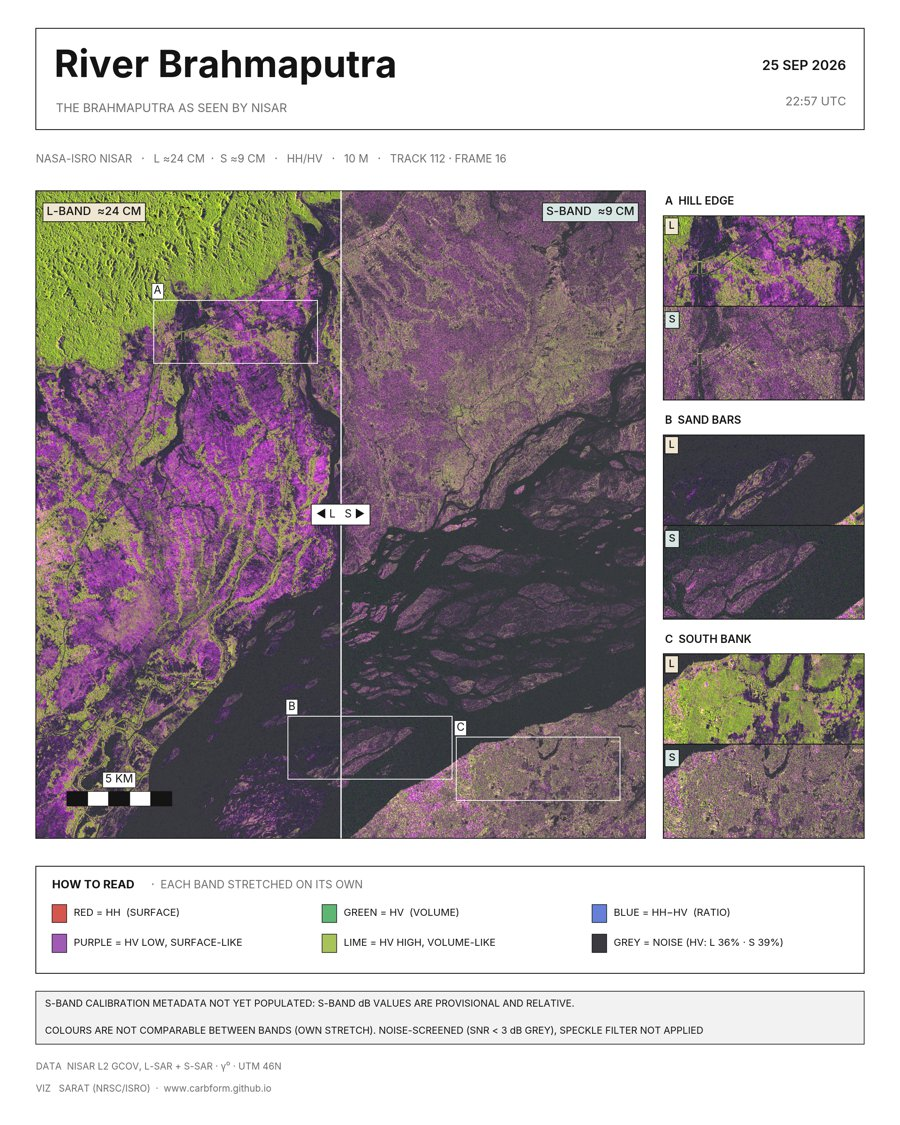
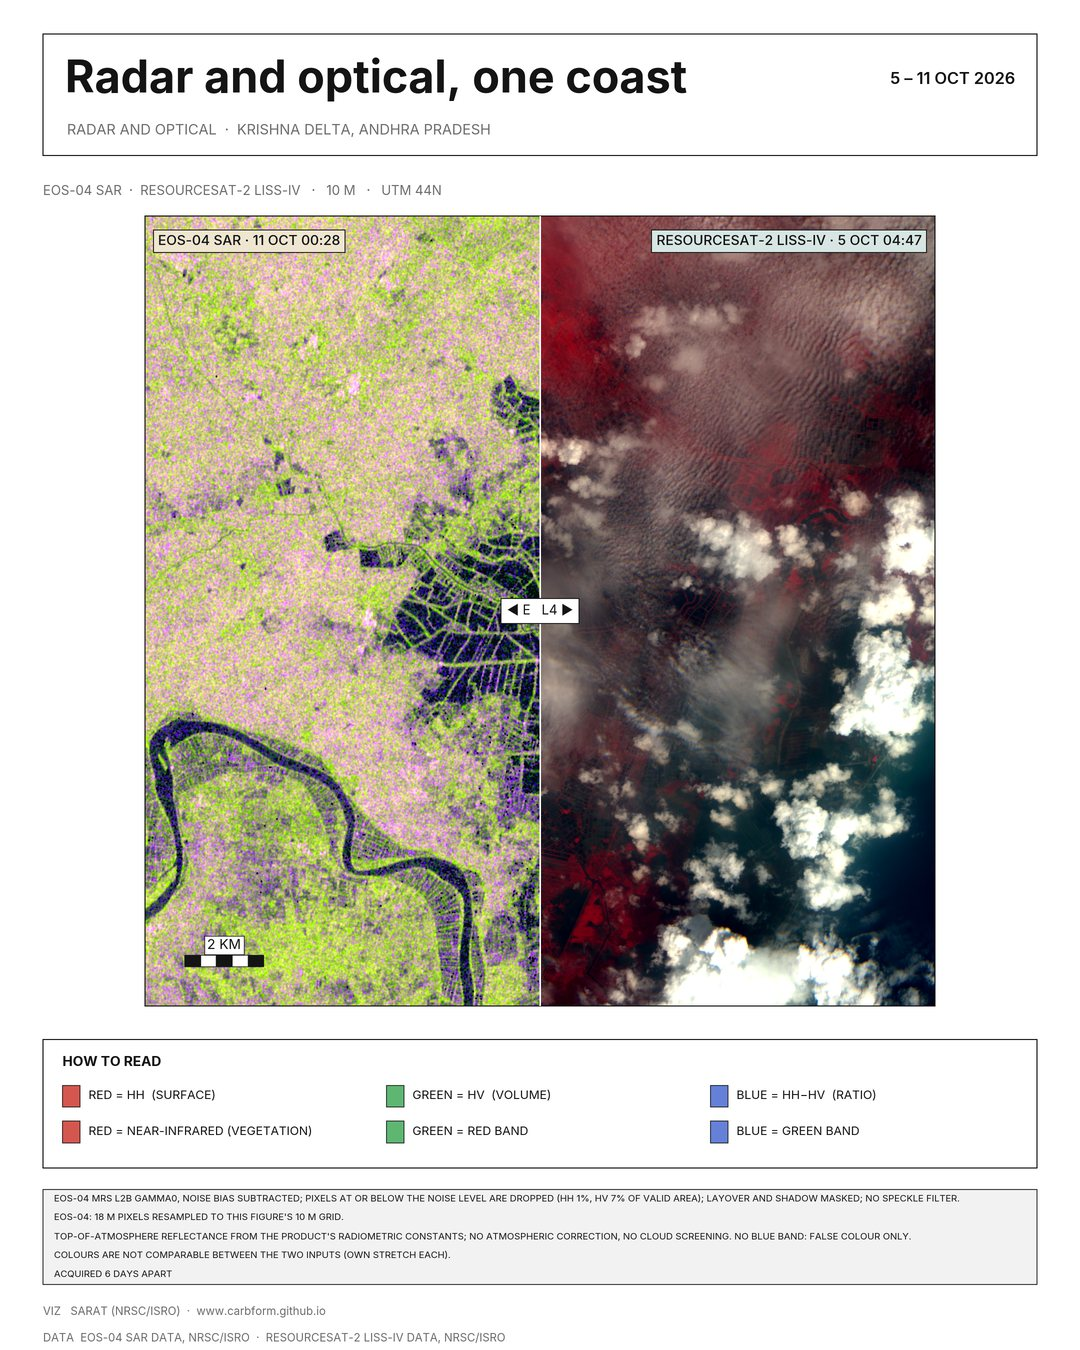
Review fixes: unique file names for one-file-per-input figures, no band claim without band facts, one recipe for all optical inputs
- named single-input figures planning several combos append the input id (they overwrote each other)
- relate(): a SAR product without radar_band makes no band or wavelength claim and says so
- sentinel1_rtc keeps sar:frequency_band when the catalogue has no centre frequency
- pick_recipes: several optical inputs with nothing named share the first recipe all of them can do
- README theme previews all show the same figure

diff --git a/tests/test_templates.py b/tests/test_templates.py
@@ -188,3 +188,47 @@ def test_every_shipped_preset_loads_and_plans(tmp_path):
         job = load_job(copy, tmp_path)
         for f in job.figures:
             assert f.template in TEMPLATES and plan_figure(f, job), preset.name
+
+
+def test_named_figures_with_one_file_per_input_do_not_overwrite_each_other(scene, tmp_path):
+    from tests.test_job import JOB as BASE  # NISAR L and S inputs
+
+    p = tmp_path / "j.toml"
+    p.write_text(BASE + '\n[[figures]]\nname = "x"\ntemplate = "sar"\ninputs = ["L", "S"]\ntheme = "minimal"\n'
+                 '\n[[figures]]\nname = "y"\ntemplate = "single"\ninputs = ["L", "S"]\ntheme = "minimal"\n')
+    paths = run_job(load_job(p, scene.data_dir), tmp_path / "out")
+    names = sorted(q.name for q in paths)
+    assert names == ["x_L_Minimal.png", "x_S_Minimal.png", "y_L_Minimal.png", "y_S_Minimal.png"]
+    assert all(q.exists() for q in paths)
+
+
+def test_no_band_is_claimed_for_a_sar_product_that_does_not_state_one():
+    l = sar("L", "NISAR", "L", 24.2)
+    untagged = sar("A", "ALOS-2", "", 0.0)
+    del untagged.meta["radar_band"], untagged.meta["wavelength_cm"]  # e.g. a generic GeoTIFF
+    r = relate([l, untagged])
+    assert r.kind == "sar_band_unknown" and r.label == "SAR · DIFFERENT SENSORS"
+    assert "band" not in r.label.replace("SAR ·", "").lower() and not any("-band" in n for n in r.notes)
+    assert any("Radar band not stated by the ALOS-2 product" in n for n in r.notes)
+    twin = sar("B", "ALOS-2", "", 0.0)
+    del twin.meta["radar_band"], twin.meta["wavelength_cm"]
+    assert relate([untagged, twin]).label == "SAR · SAME SENSOR"  # never "different bands" with an empty band list
+
+
+def test_a_band_letter_without_a_frequency_is_stated_without_a_wavelength():
+    c = sar("C", "Sentinel-1D", "C", 0.0)
+    del c.meta["wavelength_cm"]
+    l = sar("L", "NISAR", "L", 24.2)
+    notes = " | ".join(relate([l, c]).notes)
+    assert "L-band 24.2 cm, C-band" in notes and "C-band 0" not in notes
+
+
+def test_several_optical_inputs_share_one_recipe_when_none_is_named():
+    liss = optical("L4", "ResourceSat-2", layers=("green", "red", "nir"))  # no blue
+    s2 = optical("S2", "Sentinel-2")
+    both = {"L4": liss, "S2": s2}
+    assert pick_recipes({}, both, ("L4", "S2")) == {"L4": "nir_fcc", "S2": "nir_fcc"}  # like with like
+    assert pick_recipes({"S2": "ndvi"}, both, ("L4", "S2")) == {"L4": "nir_fcc", "S2": "ndvi"}  # a named recipe still wins
+    assert pick_recipes({}, {"S2": s2}, ("S2",)) == {"S2": "true_colour"}  # alone it keeps true colour
+    mixed = {"E": sar("E", "EOS-04", "C", 5.55), "L4": liss, "S2": s2}
+    assert pick_recipes({}, mixed, ("E", "L4", "S2")) == {"E": "sar_fcc", "L4": "nir_fcc", "S2": "nir_fcc"}

diff --git a/src/satviz/relations.py b/src/satviz/relations.py
@@ -10,6 +10,7 @@ from __future__ import annotations
 from dataclasses import dataclass
 
 from satviz.core import Product
+from satviz.radar import BANDS
 
 
 @dataclass(frozen=True)
@@ -45,9 +46,10 @@ def time_gap(products: list[Product]) -> str:
 
 
 def _bands(products: list[Product]) -> list[tuple[str, float]]:
-    """(band letter, wavelength cm) of each distinct SAR band, longest wavelength first."""
-    seen = {p.meta["radar_band"]: p.meta.get("wavelength_cm", 0.0) for p in products if p.meta.get("radar_band")}
-    return sorted(seen.items(), key=lambda kv: -kv[1])
+    """(band letter, wavelength cm or 0 when only the letter is known) of each distinct SAR band, longest wavelength first."""
+    seen = {p.meta["radar_band"]: p.meta.get("wavelength_cm", 0.0) for p in products}
+    order = [b for b, _, _ in BANDS]
+    return sorted(seen.items(), key=lambda kv: order.index(kv[0]) if kv[0] in order else len(order))
 
 
 def _backscatter(products: list[Product]) -> str:
@@ -71,9 +73,15 @@ def relate(products: list[Product]) -> Relation:
         if same_platform:
             return Relation("optical_same_sensor", f"{platforms[0].upper()} · {len(products)} SCENES", (gap,) if gap else ())
         return Relation("optical_different_sensors", "OPTICAL · DIFFERENT SENSORS", (gap,) if gap else ())
+    if untagged := [p for p in products if not p.meta.get("radar_band")]:
+        # a band claim needs every product to state its band; otherwise say so instead of guessing
+        names = ", ".join(dict.fromkeys(p.meta.get("label") or p.meta["platform"] for p in untagged))
+        label = "SAR · " + ("SAME SENSOR" if same_platform else "DIFFERENT SENSORS")
+        notes = [gap, f"Radar band not stated by the {names} product", _backscatter(products)]
+        return Relation("sar_band_unknown", label, tuple(n for n in notes if n))
     bands = _bands(products)
     letters = [b for b, _ in bands]
-    wl = ", ".join(f"{b}-band {w:g} cm" for b, w in bands)
+    wl = ", ".join(f"{b}-band {w:g} cm" if w else f"{b}-band" for b, w in bands)
     if same_platform and len(bands) == 1:
         kind, label = "same_sensor_same_band", f"SAME SENSOR · {letters[0]}-BAND"
         notes = [gap]

diff --git a/src/satviz/sensors/stac_optical.py b/src/satviz/sensors/stac_optical.py
@@ -232,7 +232,7 @@ def open_on_canvas(spec, canvas: Canvas, area: Area, coll: OpticalCollection, ca
         key=spec.key, layers=layers, x=canvas.x, y=canvas.y, epsg=canvas.epsg, valid=valid, kind=coll.kind,
         meta=dict(platform=platform, sensor=coll.label, label=coll.label, start=when, end=max(times),
                   resolution_m=canvas.res, crs=crs_label(canvas.epsg), attribution=coll.attribution,
-                  **(radar_facts(float(props["sar:center_frequency"])) if "sar:center_frequency" in props else {}),
+                  **_radar_meta(props),
                   **({"backscatter": "gamma0, terrain-corrected"} if coll.kind == "sar" else {}),
                   credit=coll.credit(when.year, platform), items=assess["ids"]),
         facts=SimpleNamespace(cloud_pct=cloud, coverage_pct=100 * assess["coverage"], items=", ".join(assess["ids"]),
@@ -241,6 +241,15 @@ def open_on_canvas(spec, canvas: Canvas, area: Area, coll: OpticalCollection, ca
                               polarisations="/".join(props.get("sar:polarizations", []))),
         caveats=caveats,
     )
+
+
+def _radar_meta(props: dict) -> dict:
+    """Band facts from a catalogue item: the centre frequency when given, else just the band letter, else nothing."""
+    if "sar:center_frequency" in props:
+        return radar_facts(float(props["sar:center_frequency"]))
+    if props.get("sar:frequency_band"):
+        return dict(radar_band=str(props["sar:frequency_band"]).upper())
+    return {}
 
 
 def search_rows(spec, coll: OpticalCollection, area: Area, canvas: Canvas, cache_dir=None) -> list[dict]:

diff --git a/src/satviz/templates/base.py b/src/satviz/templates/base.py
@@ -50,9 +50,23 @@ def default_recipe(product: Product, input_id: str = "") -> str:
                         f"no default recipe fits, set recipes = {{ {input_id} = \"...\" }} in the figure")
 
 
+def shared_optical_recipe(products: list[Product]) -> str | None:
+    """The first preferred optical recipe every product can do, so several optical inputs show the same composite."""
+    for name in OPTICAL_PREFERENCE:
+        if all(layer in p.layers for p in products for layer in RECIPES[name].needs):
+            return name
+    return None
+
+
 def pick_recipes(named: dict, products: dict, combo: tuple[str, ...]) -> dict[str, str]:
-    """Per input: its entry in the figure's `recipes`, else `default`, else the sensor-appropriate default."""
-    return {k: named.get(k) or named.get("default") or default_recipe(products[k], k) for k in combo}
+    """Per input: its entry in the figure's `recipes`, else `default`, else a sensor-appropriate default.
+
+    With several optical inputs and nothing named, they all get one recipe (LISS-IV, which has no blue band, next to Sentinel-2
+    gets NIR false colour on both sides), so the figure compares like with like."""
+    optical = [products[k] for k in combo if products[k].kind == "optical"]
+    shared = shared_optical_recipe(optical) if len(optical) > 1 else None
+    return {k: named.get(k) or named.get("default") or (shared if shared and products[k].kind == "optical" else None)
+            or default_recipe(products[k], k) for k in combo}
 
 
 def pairs(ids: list[str]) -> list[tuple[str, ...]]:

diff --git a/src/satviz/run.py b/src/satviz/run.py
@@ -3,6 +3,7 @@ from __future__ import annotations
 
 import dataclasses
 import json
+from collections import Counter
 from pathlib import Path
 
 from satviz.area import AreaError
@@ -89,6 +90,7 @@ def run_job(job: Job, out_dir: str | Path, cache_dir: str | Path | None = None,
         products[k] = _sensor(spec).open(spec, canvas, job.area, job.scene.data_dir, cache_dir, job.scene.name)
 
     written = []
+    per_figure = Counter(id(f) for f, _ in plan)
     for fig, combo in plan:
         try:
             resolved = TEMPLATES[fig.template].resolve(fig, combo, products, job.scene)
@@ -101,6 +103,8 @@ def run_job(job: Job, out_dir: str | Path, cache_dir: str | Path | None = None,
                 parts = [fig.name]
                 if len(combo) == 2 and len(plan) > 1:
                     parts.append(f"{combo[0]}vs{combo[1]}")
+                elif len(combo) == 1 and per_figure[id(fig)] > 1:  # one file per input must not overwrite its siblings
+                    parts.append(combo[0])
                 stem = "_".join([*parts, THEMES[theme].tag])
             written += draw(resolved, scene=scene, products=products, out_dir=out, layout=layout, combo=combo, theme=theme,
                             stem=stem, slot=list(job.inputs).index(combo[0]), strict=fig.strict, stretch=fig.stretch)
